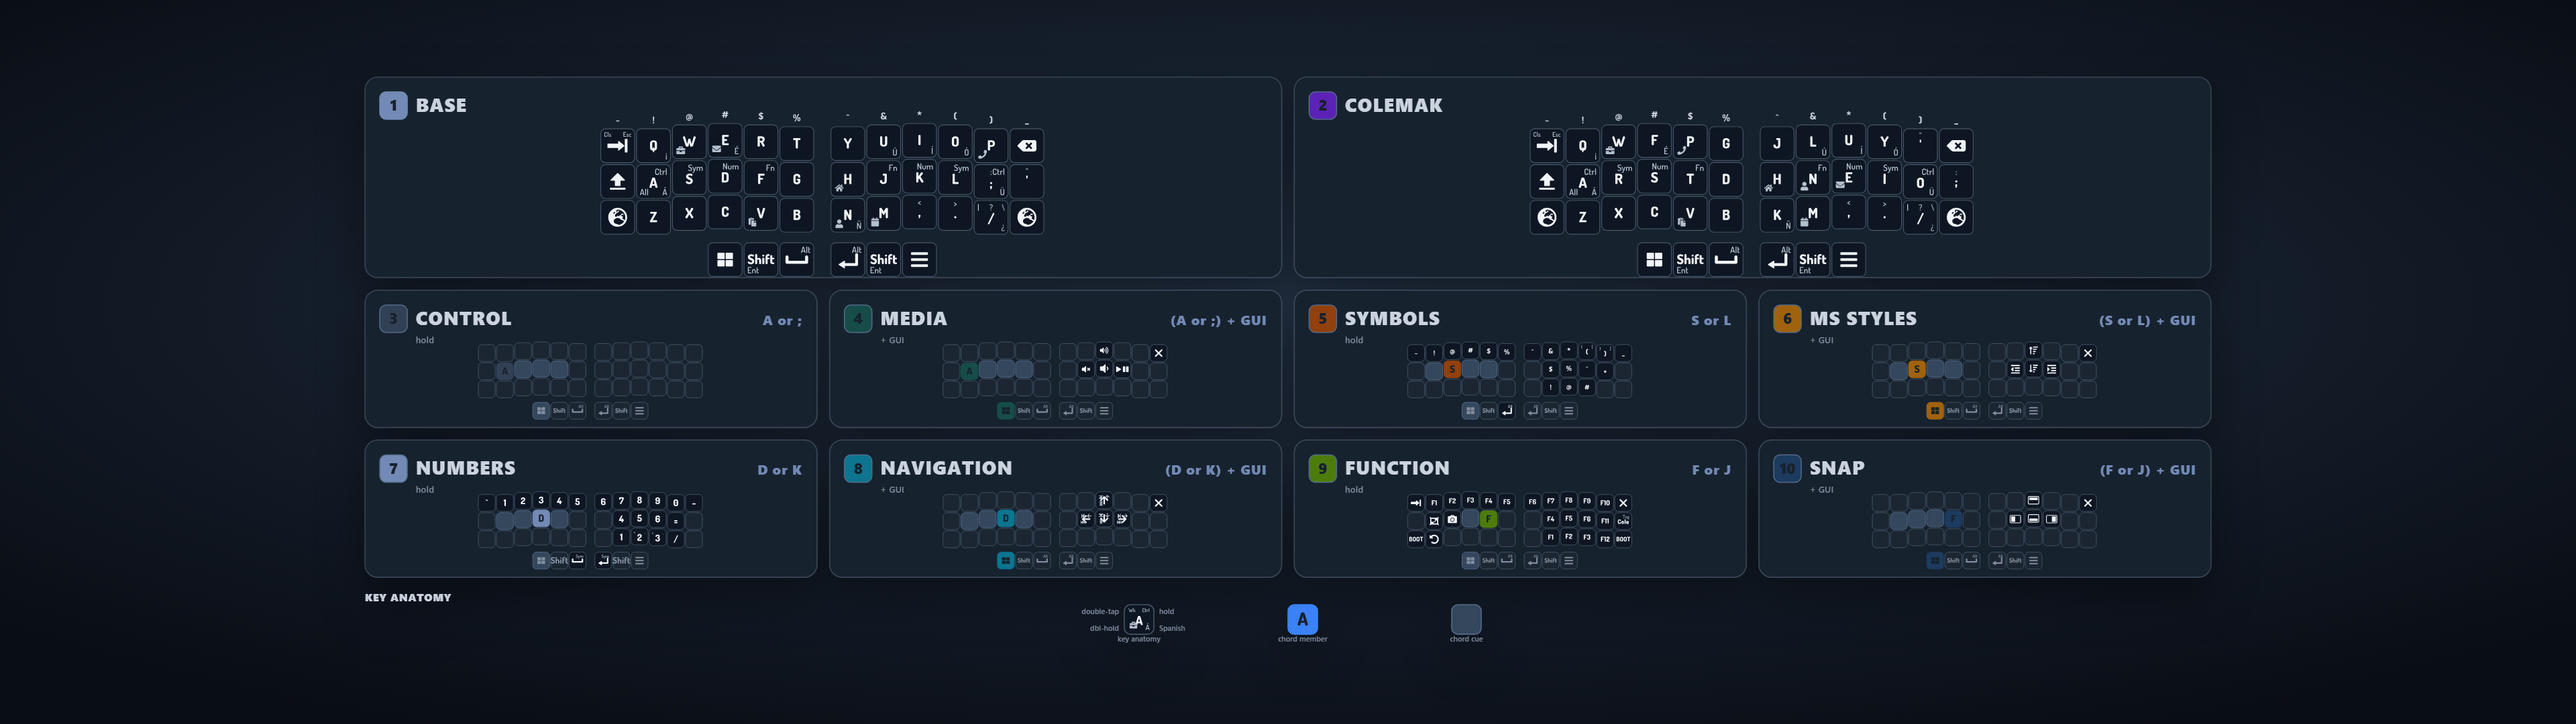
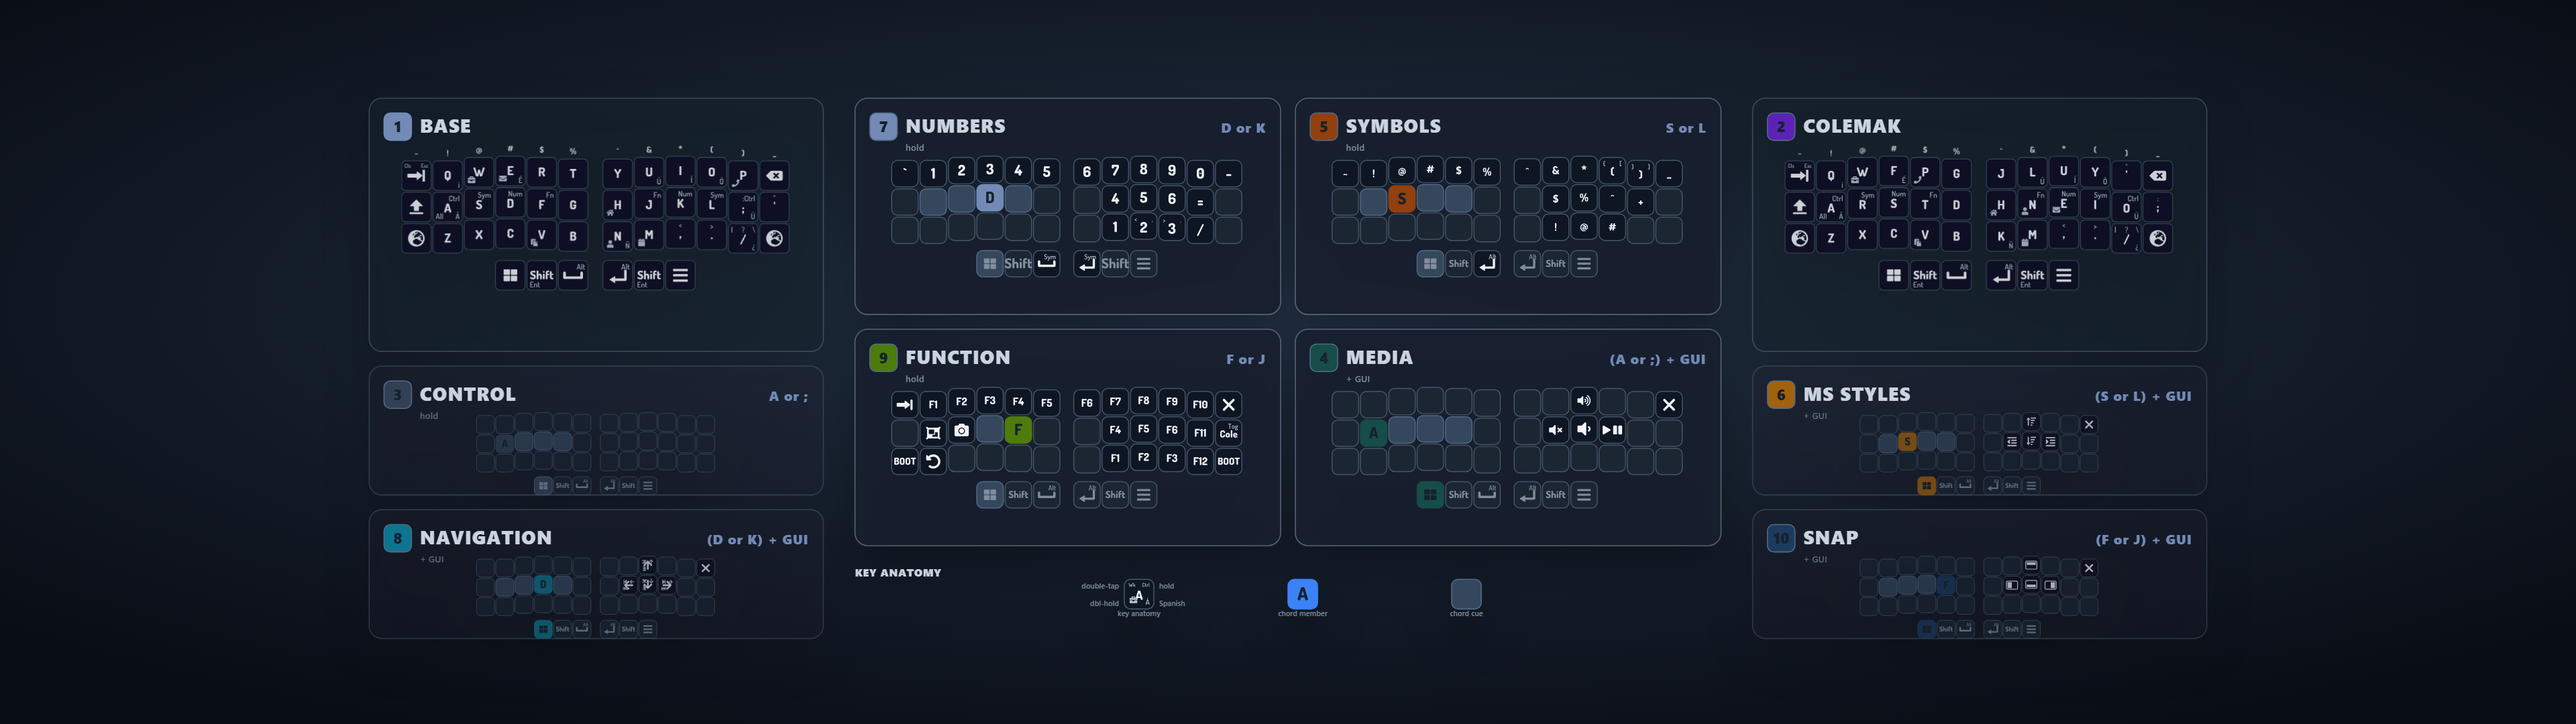
Prioritize desktop layout reference cards

diff --git a/tools/printable-guide/m51-desktop-layout-wireframe.html b/tools/printable-guide/m51-desktop-layout-wireframe.html
@@ -1,0 +1,164 @@
+<!doctype html>
+<html lang="en">
+<head>
+  <meta charset="utf-8">
+  <meta name="viewport" content="width=device-width, initial-scale=1">
+  <title>M51 desktop layout wireframe</title>
+  <style>
+    :root {
+      color-scheme: dark;
+      font-family: "Segoe UI", system-ui, sans-serif;
+      background: #10141b;
+      color: #d9e0e9;
+    }
+
+    * { box-sizing: border-box; }
+
+    body {
+      margin: 0;
+      min-height: 100vh;
+      display: grid;
+      place-items: center;
+      gap: 14px;
+      padding: 20px;
+      overflow-x: hidden;
+    }
+
+    .frame {
+      position: relative;
+      width: min(100%, calc((100vh - 88px) * 32 / 9));
+      aspect-ratio: 32 / 9;
+      background: #171d26;
+      border: 1px solid #5e6876;
+      box-shadow: 0 10px 28px #0008;
+      overflow: hidden;
+    }
+
+    .canvas-label,
+    .zone-label,
+    .measure {
+      position: absolute;
+      z-index: 5;
+      font-size: clamp(7px, 0.48vw, 14px);
+      line-height: 1;
+      color: #9ca8b7;
+      letter-spacing: 0.08em;
+      text-transform: uppercase;
+      pointer-events: none;
+    }
+
+    .canvas-label { left: 1.3%; top: 2%; }
+
+    .safe-area {
+      position: absolute;
+      inset: 7.4% 4.2%;
+      border: 1px dashed #6e7b8d;
+    }
+
+    .zone {
+      position: absolute;
+      top: 9.3%;
+      bottom: 9.3%;
+      border: 1px dotted #465161;
+    }
+
+    .zone.left  { left: 5.2%; width: 22.9%; }
+    .zone.focus { left: 29.2%; width: 41.6%; border-color: #8795a8; }
+    .zone.right { right: 5.2%; width: 22.9%; }
+
+    .zone-label {
+      top: 1.8%;
+      left: 2%;
+    }
+
+    .card {
+      position: absolute;
+      display: grid;
+      place-items: center;
+      border: 2px solid #a3afbd;
+      background: #252d38;
+      color: #f1f4f8;
+      font-size: clamp(11px, 1vw, 28px);
+      font-weight: 700;
+      letter-spacing: 0.06em;
+      text-align: center;
+    }
+
+    .card.focus-card {
+      border-width: 3px;
+      border-color: #e0e6ee;
+      background: #303a47;
+    }
+
+    .card small {
+      display: block;
+      margin-top: 0.25em;
+      color: #aeb9c7;
+      font-size: 0.48em;
+      font-weight: 500;
+      letter-spacing: 0.04em;
+    }
+
+    /* Logical canvas: 3840 x 1080. Safe margin: 160 x 80. */
+    .base       { left: 5.7%;  top: 13%;   width: 21.9%; height: 31.5%; }
+    .control    { left: 5.7%;  top: 48.1%; width: 21.9%; height: 18.5%; }
+    .navigation { left: 5.7%;  top: 70.4%; width: 21.9%; height: 18.5%; }
+
+    .media      { left: 30.2%; top: 13%;   width: 19.2%; height: 31%; }
+    .symbols    { left: 50.5%; top: 13%;   width: 19.2%; height: 31%; }
+    .numbers    { left: 30.2%; top: 48%;   width: 19.2%; height: 31%; }
+    .function   { left: 50.5%; top: 48%;   width: 19.2%; height: 31%; }
+    .anatomy    { left: 30.2%; top: 82.7%; width: 39.5%; height: 6.2%; }
+
+    .colemak    { right: 5.7%; top: 13%;   width: 21.9%; height: 31.5%; }
+    .msstyles   { right: 5.7%; top: 48.1%; width: 21.9%; height: 18.5%; }
+    .snap       { right: 5.7%; top: 70.4%; width: 21.9%; height: 18.5%; }
+
+    .measure.margin-x { left: 0.7%; top: 50%; transform: rotate(-90deg); }
+    .measure.margin-y { left: 48%; top: 5%; }
+    .measure.focus-note { left: 42%; top: 91.5%; color: #c5ced9; }
+
+    .notes {
+      margin: 0;
+      color: #aab4c1;
+      font-size: 13px;
+      text-align: center;
+    }
+
+    @media (max-height: 600px) {
+      body { padding: 8px; gap: 7px; }
+      .frame { width: min(100%, calc((100vh - 42px) * 32 / 9)); }
+      .notes { font-size: 10px; }
+    }
+  </style>
+</head>
+<body>
+  <main class="frame" aria-label="M51 desktop card placement wireframe">
+    <div class="canvas-label">3840 × 1080 logical canvas</div>
+    <div class="safe-area" aria-hidden="true"></div>
+
+    <div class="zone left"><span class="zone-label">Left wing · 880 wide</span></div>
+    <div class="zone focus"><span class="zone-label">Central focus · 1600 wide</span></div>
+    <div class="zone right"><span class="zone-label">Right wing · 880 wide</span></div>
+
+    <section class="card base">BASE<small>wide alpha card</small></section>
+    <section class="card control">CONTROL</section>
+    <section class="card navigation">NAVIGATION</section>
+
+    <section class="card focus-card media">MEDIA</section>
+    <section class="card focus-card symbols">SYMBOLS</section>
+    <section class="card focus-card numbers">NUMBERS</section>
+    <section class="card focus-card function">FUNCTION</section>
+    <section class="card anatomy">KEY ANATOMY</section>
+
+    <section class="card colemak">COLEMAK<small>wide alpha card</small></section>
+    <section class="card msstyles">MS STYLES</section>
+    <section class="card snap">SNAP</section>
+
+    <span class="measure margin-x">160 px safe margin</span>
+    <span class="measure margin-y">80 px safe margin</span>
+    <span class="measure focus-note">40 px nominal card gaps</span>
+  </main>
+  <p class="notes">Placement review only · no keys, legends, artwork, or final styling</p>
+</body>
+</html>

diff --git a/tools/printable-guide/render_corne_guide.py b/tools/printable-guide/render_corne_guide.py
@@ -1622,73 +1622,112 @@ def build_desktop(width, height, content_width):
     """Render the shared guide data in a purpose-built 32:9 composition."""
     FONTFAM = 'font-family="Inter, Segoe UI, system-ui, sans-serif"'
     comp_w, comp_h = 1920, 590
-    margin, gap = 86, 12
-    usable_w = comp_w - 2 * margin
-    alpha_h, small_h = 190, 130
-    alpha_y = 25
-    row2_y = alpha_y + alpha_h + gap
-    row3_y = row2_y + small_h + gap
-    anatomy_y = row3_y + small_h + 8
-    alpha_w = (usable_w - gap) / 2
-    small_w = (usable_w - 3 * gap) / 4
+    left_x, side_w = 90, 430
+    center_x, center_w = 550, 820
+    right_x = 1400
+    top_y, alpha_h = 45, 240
+    utility_y = (299, 435)
+    utility_h = 122
+    focus_gap = 14
+    focus_w = (center_w - focus_gap) / 2
+    focus_y = (45, 264)
+    focus_h = 205
+    anatomy_y = 483
     parts = [font_face_defs()]
 
-    for i, (name, sub, data, num) in enumerate(ALPHA_SPECS):
-        cx = margin + i * (alpha_w + gap)
-        parts.append(draw_section_card(cx, alpha_y, alpha_w, alpha_h,
-                                       num, name, sub, name))
+    def desktop_card(x, y, w, h, num, title, role, layer_name, tier):
+        panel = draw_section_card(x, y, w, h, num, title, role, layer_name)
+        fill_opacity, stroke_opacity = {
+            "focus": (0.88, 0.76),
+            "alpha": (0.48, 0.48),
+            "utility": (0.26, 0.34),
+        }[tier]
+        return panel.replace(
+            f'fill="{CARD_FILL}" stroke="{CARD_STROKE}" stroke-width="1"',
+            f'fill="#18212d" fill-opacity="{fill_opacity}" '
+            f'stroke="#667589" stroke-opacity="{stroke_opacity}" '
+            f'stroke-width="1"',
+            1,
+        )
+
+    alpha_specs = {name: (sub, data, num) for name, sub, data, num in ALPHA_SPECS}
+    layer_specs = {
+        layer_name: (title, data, num, role)
+        for title, layer_name, data, num, role in ROW2_SPECS + ROW3_SPECS
+    }
+
+    def render_alpha(name, x):
+        sub, data, num = alpha_specs[name]
+        parts.append(desktop_card(
+            x, top_y, side_w, alpha_h, num, name, sub, name, "alpha"
+        ))
         unit = 43
-        keyboard_scale = 32 / unit
-        kb_x = cx + (alpha_w - _kb_width_est(unit) * keyboard_scale) / 2
-        kb_y = alpha_y + 44
+        keyboard_scale = 28 / unit
+        kb_x = x + (side_w - _kb_width_est(unit) * keyboard_scale) / 2
+        kb_y = top_y + 55
         keyboard, _, _ = draw_keyboard(
             0, 0, unit, data, name in DARK_LAYER, set(), layer_name=name
         )
         parts.append(
             f'<g transform="translate({kb_x:.3f} {kb_y:.3f}) '
-            f'scale({keyboard_scale:.8f})">'
+            f'scale({keyboard_scale:.8f})" opacity="0.82">'
             + draw_sym_strip(0, 0, unit, SYMBOLS[0])
             + keyboard
             + '</g>'
         )
 
-    def render_desktop_row(specs, y):
-        for i, (title, layer_name, data, num, role) in enumerate(specs):
-            cx = margin + i * (small_w + gap)
-            parts.append(draw_section_card(cx, y, small_w, small_h,
-                                           num, title, role, layer_name))
-            parts.append(
-                f'<text x="{cx+48:.1f}" y="{y+50:.1f}" {FONTFAM} '
-                f'font-size="8" font-weight="600" fill="{MUTED}" '
-                f'letter-spacing="0.3">{esc(role)}</text>'
-            )
-            unit = 27
-            keyboard_scale = 16 / unit
-            kb_x = cx + (small_w - _kb_width_est(unit) * keyboard_scale) / 2
-            kb_y = y + 49
-            access_set, secondary_set, cue_map = card_highlights(layer_name)
-            keyboard, _, _ = draw_keyboard(
-                0, 0, unit, data, layer_name in DARK_LAYER, access_set,
-                secondary_set=secondary_set, embed_set=embed_for(layer_name),
-                cue_map=cue_map,
-                font_boost=LAYER_FONT_BOOST.get(layer_name, 1.0),
-                layer_name=layer_name,
-            )
-            parts.append(
-                f'<g transform="translate({kb_x:.3f} {kb_y:.3f}) '
-                f'scale({keyboard_scale:.8f})">{keyboard}</g>'
-            )
+    def render_layer(layer_name, x, y, w, h, tier):
+        title, data, num, role = layer_specs[layer_name]
+        parts.append(desktop_card(
+            x, y, w, h, num, title, role, layer_name, tier
+        ))
+        role_opacity = 1.0 if tier == "focus" else 0.68
+        parts.append(
+            f'<text x="{x+48:.1f}" y="{y+50:.1f}" {FONTFAM} '
+            f'font-size="8" font-weight="600" fill="{MUTED}" '
+            f'fill-opacity="{role_opacity}" letter-spacing="0.3">'
+            f'{esc(role)}</text>'
+        )
+        unit = 27
+        target_unit = 25 if tier == "focus" else 17
+        keyboard_scale = target_unit / unit
+        kb_x = x + (w - _kb_width_est(unit) * keyboard_scale) / 2
+        kb_y = y + (55 if tier == "focus" else 44)
+        access_set, secondary_set, cue_map = card_highlights(layer_name)
+        keyboard, _, _ = draw_keyboard(
+            0, 0, unit, data, layer_name in DARK_LAYER, access_set,
+            secondary_set=secondary_set, embed_set=embed_for(layer_name),
+            cue_map=cue_map,
+            font_boost=LAYER_FONT_BOOST.get(layer_name, 1.0),
+            layer_name=layer_name,
+        )
+        content_opacity = 1.0 if tier == "focus" else 0.66
+        parts.append(
+            f'<g transform="translate({kb_x:.3f} {kb_y:.3f}) '
+            f'scale({keyboard_scale:.8f})" '
+            f'opacity="{content_opacity}">{keyboard}</g>'
+        )
 
-    render_desktop_row(ROW2_SPECS, row2_y)
-    render_desktop_row(ROW3_SPECS, row3_y)
+    render_alpha("BASE", left_x)
+    render_alpha("COLEMAK", right_x)
+    render_layer("CTRL", left_x, utility_y[0], side_w, utility_h, "utility")
+    render_layer("NAVIGATION", left_x, utility_y[1], side_w, utility_h, "utility")
+    render_layer("MSSTYLES", right_x, utility_y[0], side_w, utility_h, "utility")
+    render_layer("SNAP", right_x, utility_y[1], side_w, utility_h, "utility")
+    render_layer("NUMBERS", center_x, focus_y[0], focus_w, focus_h, "focus")
+    render_layer("SYMBOLS", center_x + focus_w + focus_gap,
+                 focus_y[0], focus_w, focus_h, "focus")
+    render_layer("FUNCTION", center_x, focus_y[1], focus_w, focus_h, "focus")
+    render_layer("MEDIA", center_x + focus_w + focus_gap,
+                 focus_y[1], focus_w, focus_h, "focus")
 
     parts.append(
-        f'<text x="{margin}" y="{anatomy_y+15}" {FONTFAM} font-size="10" '
+        f'<text x="{center_x}" y="{anatomy_y+15}" {FONTFAM} font-size="10" '
         f'font-weight="800" fill="{INK}" letter-spacing="0.6">KEY ANATOMY</text>'
     )
     anatomy_unit = 28
     anatomy_key_y = anatomy_y + 18
-    anatomy_start = comp_w / 2 - 155
+    anatomy_start = center_x + center_w / 2 - 155
     anatomy_x = [anatomy_start, anatomy_start + 155, anatomy_start + 310]
     main_font = max(11, int(round(anatomy_unit * 0.42)))
     hold_font = max(7, int(round(anatomy_unit * 0.26)))
